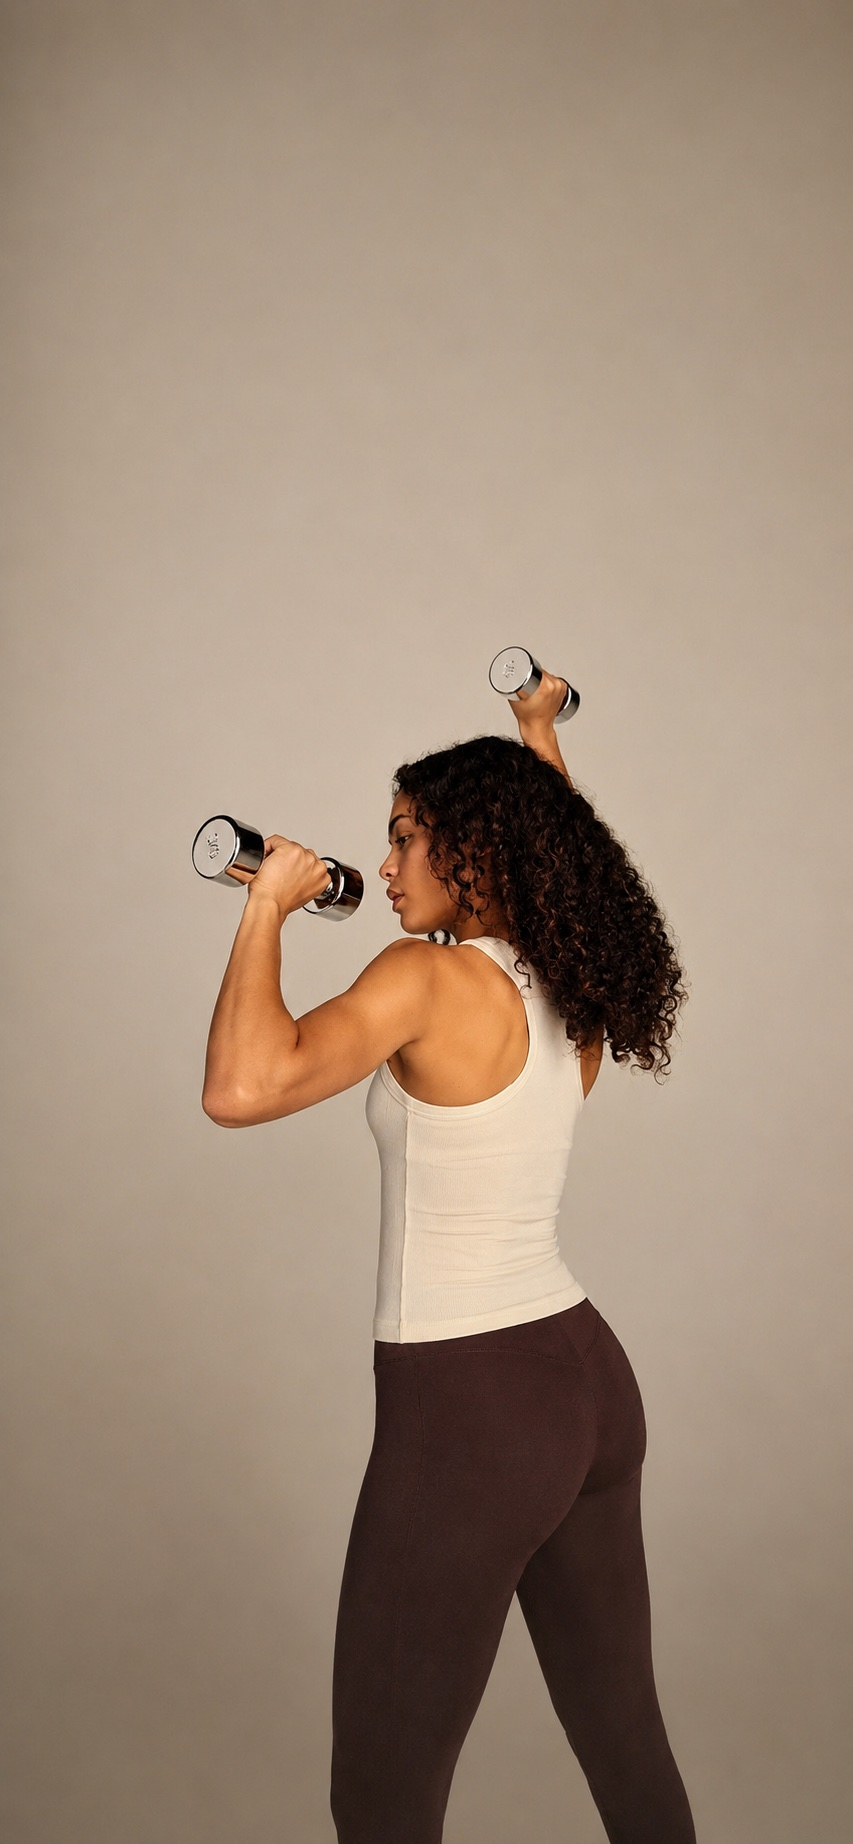
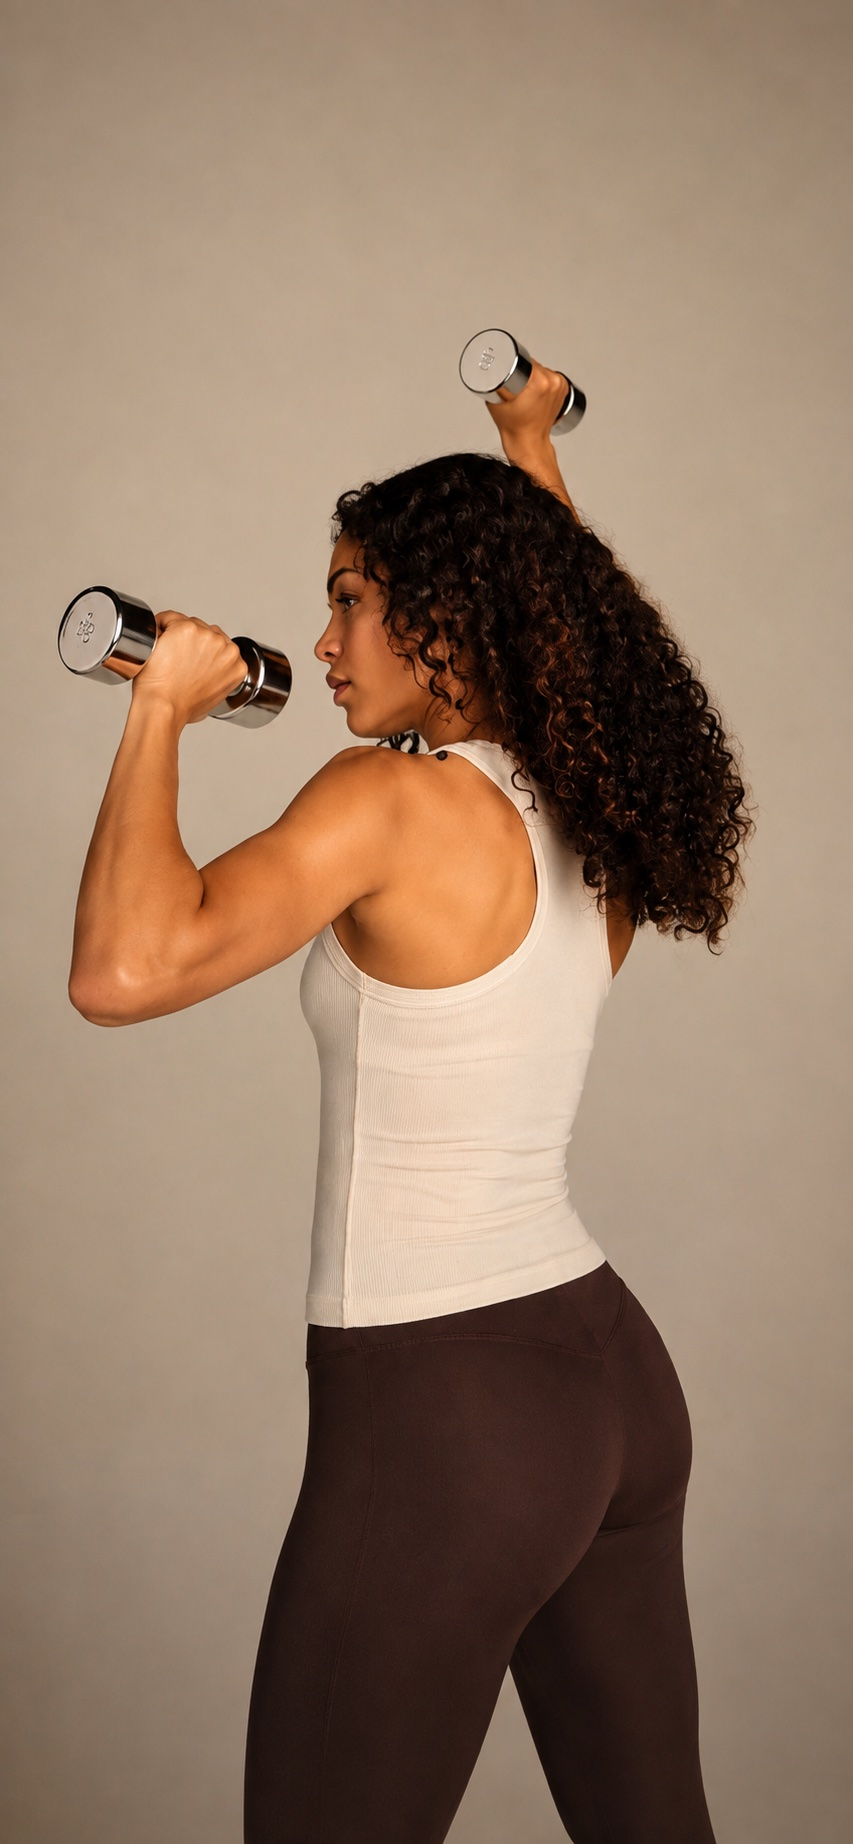
Welcome: update background image (v26)

Changed region(s): [[0.061, 0.1855, 0.8839, 1.0], [0.5182, 0.8655, 0.7315, 1.0]]

diff --git a/index.html b/index.html
@@ -4,19 +4,19 @@
 <meta charset="utf-8">
 <meta name="viewport" content="width=device-width,initial-scale=1,viewport-fit=cover">
 <meta name="theme-color" content="#222222">
-<meta name="myfit-version" content="25">
+<meta name="myfit-version" content="26">
 <link rel="manifest" href="manifest.webmanifest">
-<link rel="stylesheet" href="styles.css?v=25">
-<link rel="icon" href="assets/icon-192.png?v=25">
-<link rel="apple-touch-icon" href="assets/apple-touch-icon.png?v=25">
+<link rel="stylesheet" href="styles.css?v=26">
+<link rel="icon" href="assets/icon-192.png?v=26">
+<link rel="apple-touch-icon" href="assets/apple-touch-icon.png?v=26">
 <title>My Fit Mini</title>
 <script>
 /* Force one-time PWA cache refresh when UI version changes.
    Preserves workout/history localStorage and IndexedDB image data. */
 (function () {
-  var EXPECTED = '25';
+  var EXPECTED = '26';
   var VERSION_KEY = 'myfit-ui-version';
-  var RELOAD_KEY = 'myfit-ui-reload-v25';
+  var RELOAD_KEY = 'myfit-ui-reload-v26';
   try {
     var current = localStorage.getItem(VERSION_KEY);
     if (current === EXPECTED) return;
@@ -55,7 +55,7 @@
   <div class="welcome-content">
     <div class="welcome-hero">
       <p class="welcome-kicker">Chào mừng bạn đến với</p>
-      <img class="welcome-logo" src="assets/logo-header.png?v=25" alt="My Fit Mini">
+      <img class="welcome-logo" src="assets/logo-header.png?v=26" alt="My Fit Mini">
       <p class="welcome-tagline">Thức dậy và trở thành phiên bản mà chính bạn yêu thích !</p>
     </div>
     <div class="welcome-actions">
@@ -70,7 +70,7 @@
   <button type="button" class="home-back" id="home-back-btn" aria-label="Quay lại">← Quay lại</button>
 </div>
 <div class="brand">
-  <img class="brand-logo" src="assets/logo-header.png?v=25" alt="My Fit Mini">
+  <img class="brand-logo" src="assets/logo-header.png?v=26" alt="My Fit Mini">
 </div>
 <h1 class="title">Lịch tập của bạn</h1>
 
@@ -122,7 +122,7 @@
   <div class="wrap library-inner">
     <button type="button" class="library-back" id="library-back-btn">← Quay lại</button>
     <div class="brand">
-      <img class="brand-logo" src="assets/logo-header.png?v=25" alt="My Fit Mini">
+      <img class="brand-logo" src="assets/logo-header.png?v=26" alt="My Fit Mini">
     </div>
     <h1 class="title">Tập theo bài</h1>
     <p class="library-intro">Thư viện bài tập lẻ / bổ trợ. Đây không phải lịch tập cố định T2–T4–T6.</p>
@@ -333,8 +333,8 @@
   </div>
 </div>
 
-<script src="data.js?v=25"></script>
-<script src="images.js?v=25"></script>
-<script src="app.js?v=25"></script>
+<script src="data.js?v=26"></script>
+<script src="images.js?v=26"></script>
+<script src="app.js?v=26"></script>
 </body>
 </html>

diff --git a/sw.js b/sw.js
@@ -1,14 +1,14 @@
-const CACHE_NAME = 'my-fit-mini-v25';
-const APP_VERSION = '25';
+const CACHE_NAME = 'my-fit-mini-v26';
+const APP_VERSION = '26';
 
 const ASSETS = [
   './',
   './index.html',
   './manifest.webmanifest',
-  './styles.css?v=25',
-  './data.js?v=25',
-  './images.js?v=25',
-  './app.js?v=25',
+  './styles.css?v=26',
+  './data.js?v=26',
+  './images.js?v=26',
+  './app.js?v=26',
   './styles.css',
   './data.js',
   './images.js',
